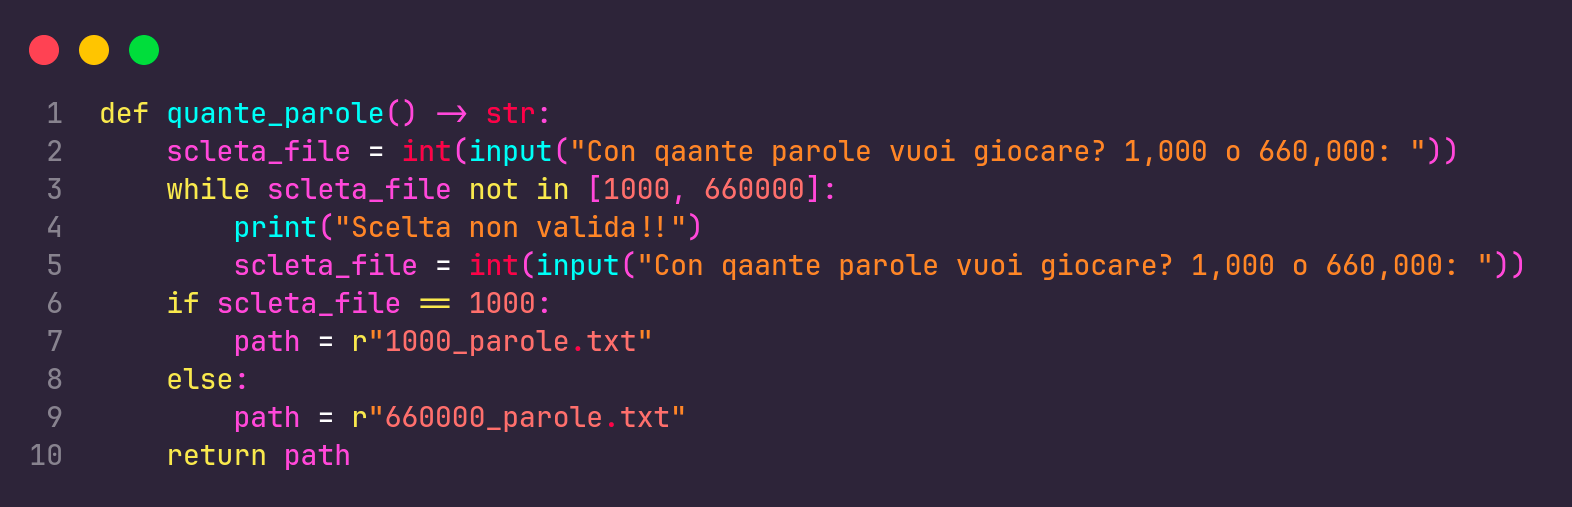
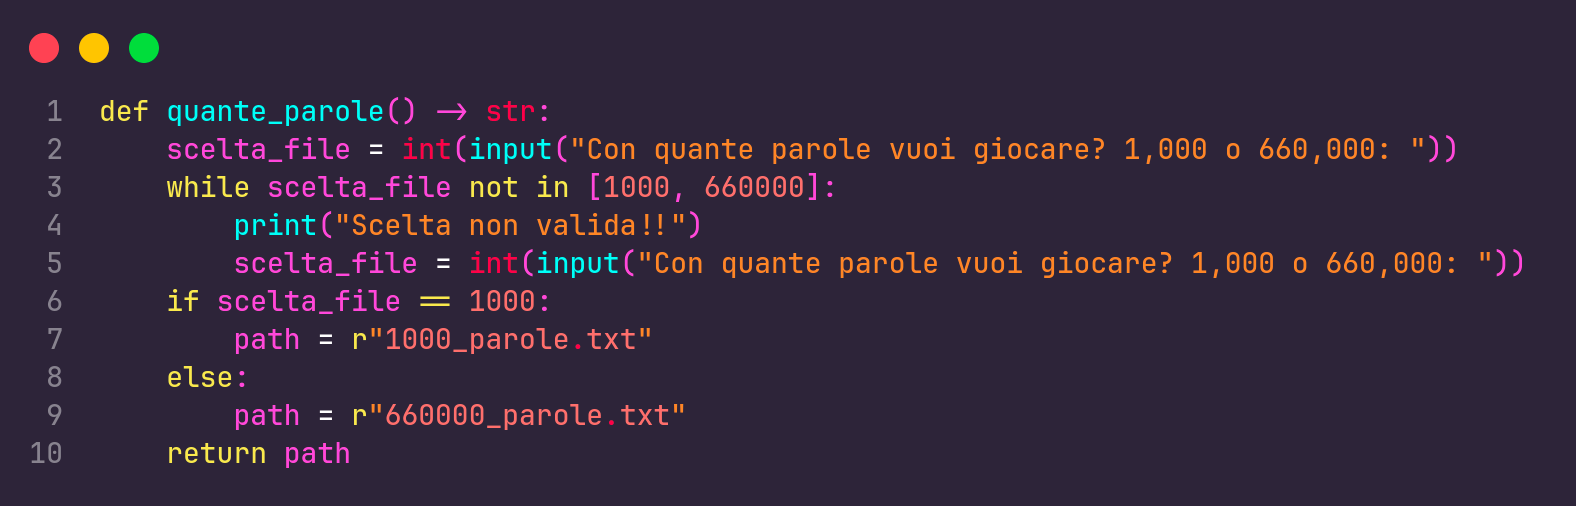
Updating the code and the photos

diff --git a/Impiccato/func.py b/Impiccato/func.py
@@ -6,11 +6,11 @@ warnings.filterwarnings("ignore")
 
 
 def quante_parole() -> str:
-    scleta_file = int(input("Con qaante parole vuoi giocare? 1,000 o 660,000: "))
-    while scleta_file not in [1000, 660000]:
+    scelta_file = int(input("Con quante parole vuoi giocare? 1,000 o 660,000: "))
+    while scelta_file not in [1000, 660000]:
         print("Scelta non valida!!")
-        scleta_file = int(input("Con qaante parole vuoi giocare? 1,000 o 660,000: "))
-    if scleta_file == 1000:
+        scelta_file = int(input("Con quante parole vuoi giocare? 1,000 o 660,000: "))
+    if scelta_file == 1000:
         path = r"1000_parole.txt"
     else:
         path = r"660000_parole.txt"
@@ -90,7 +90,7 @@ def fai_tentativi(scelta: str, parola: str):
     while n_tentativi > 0:
         print(f"{n_tentativi} tentativi rimasti!")
         if scelta == "facile":
-            print("Lettera già inserita: ", end="")
+            print("Lettere o parole già inserite: ", end="")
             for i in inserimenti_utente:
                 if i != inserimenti_utente[-1]:
                     print(i, end=" | ")
@@ -99,16 +99,23 @@ def fai_tentativi(scelta: str, parola: str):
         parola_nascosta = aggiorna(inserimenti_utente, parola)
         print(parola_nascosta)
         utente = input("Fai un tentativo: ")
-        inserimenti_utente = np.append(inserimenti_utente, utente)
-        parola_aggiornata = aggiorna(inserimenti_utente, parola)
-        if utente in parola_nascosta and scelta in ["facile", "intermedio"]:
+        if utente in inserimenti_utente and scelta in ["facile", "intermedio"]:
+            print("-----------------------------------")
             print("Lettera già inserita!")
-        elif utente == parola or parola_aggiornata == parola:
-            fine(True, parola)
-            return
         elif utente not in parola:
             n_tentativi -= 1
+            print("-----------------------------------")
             print("No! Ritenta")
+        else:
+            print("-----------------------------------")
+            print(f"Hai indovinato la lettera {utente}")
+        if utente not in inserimenti_utente:
+            inserimenti_utente = np.append(inserimenti_utente, utente)
+        parola_aggiornata = aggiorna(inserimenti_utente, parola)
+        if utente == parola or parola_aggiornata == parola:
+            print("-----------------------------------")
+            fine(True, parola)
+            return
         print("-----------------------------------")
     else:
         fine(False, parola)
@@ -133,6 +140,7 @@ def main():
     scelta = difficoltà()
     len_parola = lunghezza_parole(max_len)
     parola = scegli_parola(file, len_parola)
+    print("-----------------------------------")
     fai_tentativi(scelta, parola[0])
 
 
